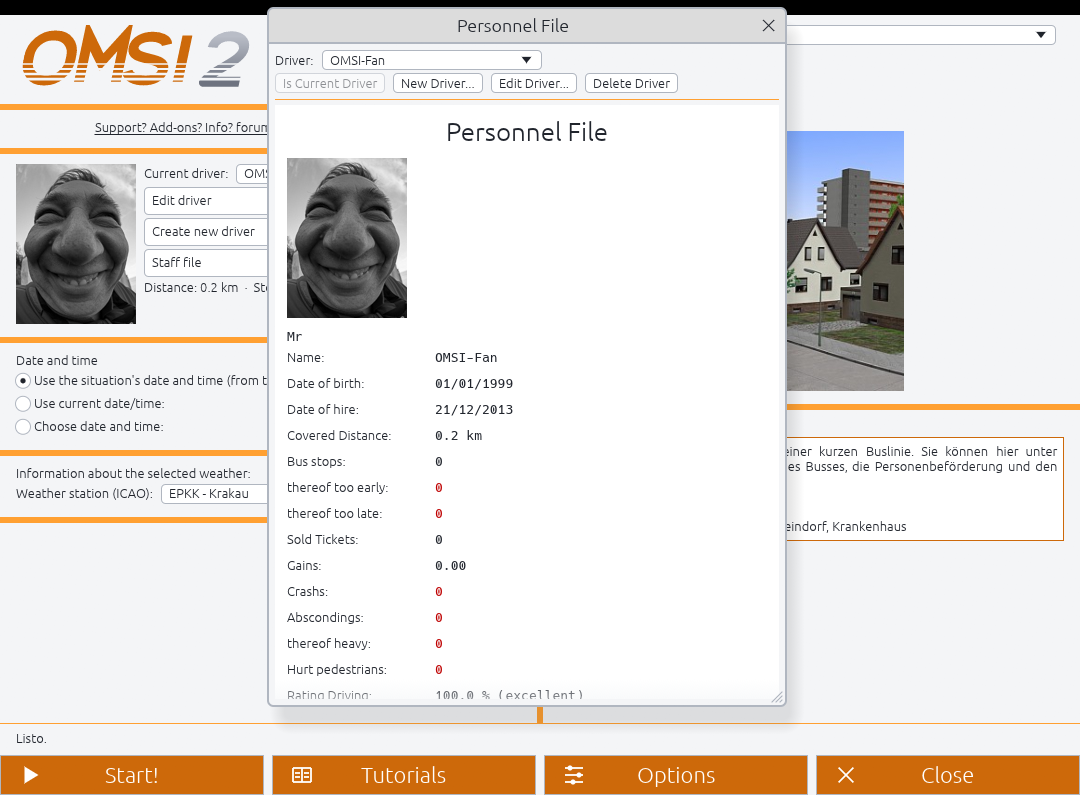
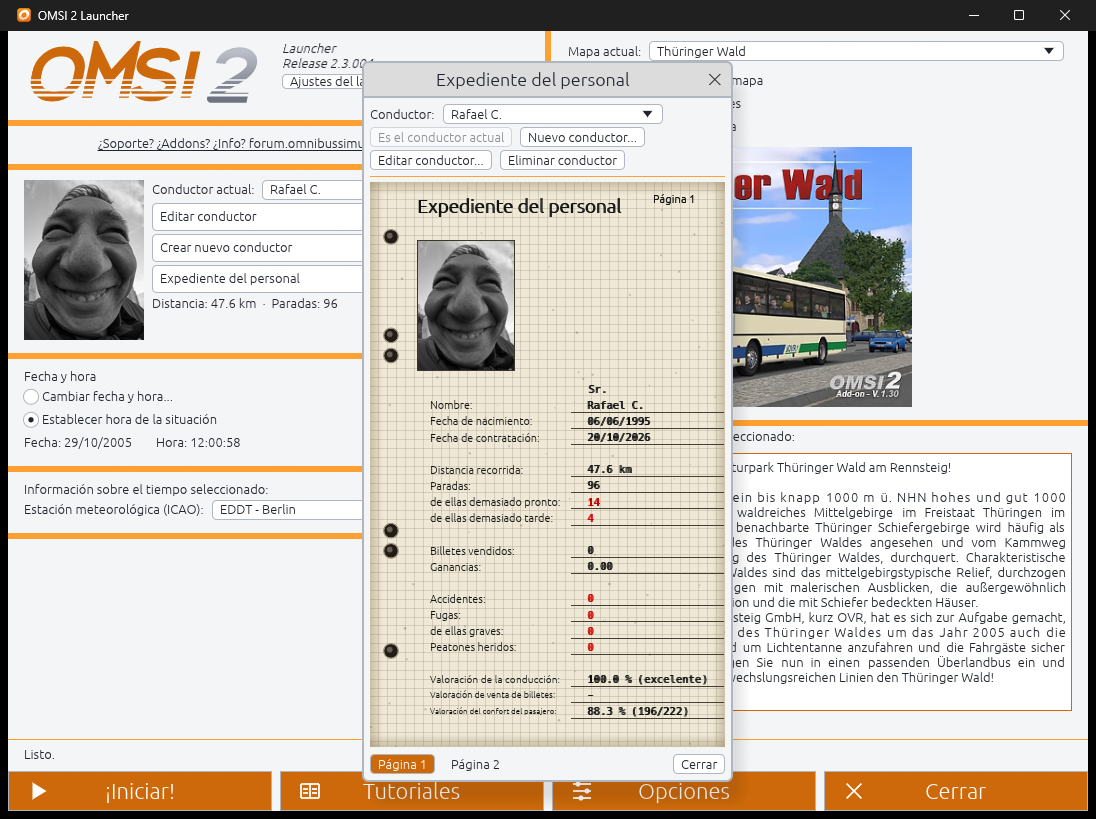
OMSI 2 Launcher 0.9-beta3

diff --git a/docs/index.html b/docs/index.html
@@ -84,7 +84,7 @@
     </nav>
     <div class="hero-inner">
       <div>
-        <span class="badge">0.9-beta2</span>
+        <span class="badge">0.9-beta3</span>
         <h1><span data-l="en">Start <span>OMSI 2</span> in one click.</span><span data-l="es">Inicia <span>OMSI 2</span> con un clic.</span></h1>
         <p>
           <span data-l="en">A fast, modern launcher for the vanilla OMSI 2 bus simulator. Pick the map, driver, date and time, press Start, and OMSI loads the map for you.</span>
@@ -109,12 +109,12 @@
     </p>
     <div class="grid">
       <div class="card"><h3><span data-l="en">One-click start</span><span data-l="es">Inicio con un clic</span></h3><p><span data-l="en">Open OMSI 2 Launcher, pick your map and driver, and it starts OMSI 2 and loads the last map state, the map without buses, or a saved situation.</span><span data-l="es">Abre OMSI 2 Launcher, elige tu mapa y conductor y carga el último estado, el mapa sin autobuses o una situación guardada.</span></p></div>
-      <div class="card"><h3><span data-l="en">Date, time and weather</span><span data-l="es">Fecha, hora y tiempo</span></h3><p><span data-l="en">Use the map's, the current ones, or your own, with Morning, Day, Afternoon and Night shortcuts and the ICAO weather station.</span><span data-l="es">Usa las del mapa, las actuales o las tuyas, con atajos Mañana, Día, Tarde y Noche y la estación meteorológica ICAO.</span></p></div>
+      <div class="card"><h3><span data-l="en">Date, time and weather</span><span data-l="es">Fecha, hora y tiempo</span></h3><p><span data-l="en">Like OMSI's start screen: change them in a window with the four times of day, the weekday and the map's holidays, or keep the situation's. Plus the ICAO weather station.</span><span data-l="es">Como la pantalla de inicio de OMSI: cámbialas en una ventana con las cuatro franjas del día, el día de la semana y los festivos del mapa, o deja las de la situación. Más la estación meteorológica ICAO.</span></p></div>
       <div class="card"><h3><span data-l="en">OMSI's options, rebuilt</span><span data-l="es">Las opciones de OMSI, reconstruidas</span></h3><p><span data-l="en">The same tabs and layout as the original, plus option presets you can load and save.</span><span data-l="es">Las mismas pestañas y disposición que el original, más presets de opciones que puedes cargar y guardar.</span></p></div>
       <div class="card"><h3><span data-l="en">Drivers and staff file</span><span data-l="es">Conductores y expediente</span></h3><p><span data-l="en">Edit, create and delete drivers and read their stops, distance, comfort rating and buses.</span><span data-l="es">Edita, crea y elimina conductores y consulta paradas, distancia, valoración de confort y autobuses.</span></p></div>
       <div class="card"><h3><span data-l="en">Choose where to appear</span><span data-l="es">Elige dónde aparecer</span></h3><p><span data-l="en">With "Load map without buses", pick the map's start place in the launcher; it answers OMSI's position window for you.</span><span data-l="es">Con "Cargar mapa sin autobuses", elige en el launcher el punto de inicio del mapa; él responde a la ventana de posición de OMSI.</span></p></div>
       <div class="card"><h3><span data-l="en">Tutorials</span><span data-l="es">Tutoriales</span></h3><p><span data-l="en">Start tutorials 1 to 4 straight from the launcher.</span><span data-l="es">Inicia los tutoriales 1 a 4 directamente desde el launcher.</span></p></div>
-      <div class="card"><h3><span data-l="en">7 languages, 3 themes</span><span data-l="es">7 idiomas, 3 temas</span></h3><p><span data-l="en">Español, English, Deutsch, Polski, Čeština, Français and Português; original orange, dark and light.</span><span data-l="es">Español, English, Deutsch, Polski, Čeština, Français y Português; naranja original, oscuro y claro.</span></p></div>
+      <div class="card"><h3><span data-l="en">Your languages, 3 themes</span><span data-l="es">Tus idiomas, 3 temas</span></h3><p><span data-l="en">Seven built in (Español, English, Deutsch, Polski, Čeština, Français, Português) plus any language in OMSI's Languages folder, with your own translation file; original orange, dark and light themes.</span><span data-l="es">Siete incluidos (Español, English, Deutsch, Polski, Čeština, Français, Português) más cualquier idioma de la carpeta Languages de OMSI, con tu propio archivo de traducción; temas naranja original, oscuro y claro.</span></p></div>
     </div>
   </section>
 

diff --git a/src/main.rs b/src/main.rs
@@ -221,7 +221,7 @@ impl App {
             tut_sel: 0,
             tut_entries: vec![],
             staff_open: std::env::var("OMSI2_OPEN").as_deref() == Ok("staff"), // dev shortcut for screenshots (OMSI2_TAB = page)
-            staff_sel: 0,
+            staff_sel: driver,
             staff_rec: None,
             staff_labels: Arc::new(HashMap::new()),
             confirm_delete: None,

diff --git a/src/update.rs b/src/update.rs
@@ -7,7 +7,7 @@ use std::sync::{Arc, Mutex};
 pub const REPO: &str = "rafaelkaiz/OMSI2-Launcher";
 
 /// The version as people read it ("0.9-beta1"); `VERSION` is the same in the form Cargo and the version comparison use.
-pub const LABEL: &str = "0.9-beta2";
+pub const LABEL: &str = "0.9-beta3";
 
 pub const VERSION: &str = env!("CARGO_PKG_VERSION");
 

diff --git a/README.es.md b/README.es.md
@@ -2,20 +2,20 @@
 
 **Un launcher rápido y moderno para el simulador de autobuses OMSI 2 original.** Elige el mapa, el conductor, la fecha y la hora, pulsa *Iniciar* y OMSI 2 se abre y carga el mapa por ti, sin pasar a mano por la pantalla de inicio.
 
-> **Versión 0.9-beta2** — segunda versión pública de pruebas (mira las [notas de la versión](https://github.com/rafaelkaiz/OMSI2-Launcher/releases)). [English](README.md) · [Página web](https://rafaelkaiz.github.io/OMSI2-Launcher/) · [Descargar](https://github.com/rafaelkaiz/OMSI2-Launcher/releases)
+> **Versión 0.9-beta3** — tercera versión pública de pruebas (mira las [notas de la versión](https://github.com/rafaelkaiz/OMSI2-Launcher/releases)). [English](README.md) · [Página web](https://rafaelkaiz.github.io/OMSI2-Launcher/) · [Descargar](https://github.com/rafaelkaiz/OMSI2-Launcher/releases)
 
 ![El launcher](docs/img/launcher.png)
 
 ## Qué hace
 
 - **Inicio con un clic**: abre OMSI 2 Launcher, elige tu mapa y conductor y él inicia OMSI 2 y carga el mapa: último estado, mapa sin autobuses o una situación guardada.
-- **Fecha y hora**: las del mapa, las actuales o las que elijas (con los atajos *Mañana 07:00 / Día 12:00 / Tarde 17:00 / Noche 00:00*), más la estación meteorológica (ICAO).
+- **Fecha y hora**: como la pantalla de inicio de OMSI: se cambian en una ventana propia (hora, las cuatro franjas del día, fecha, día de la semana y festivos del mapa) o se deja la de la situación, más la estación meteorológica (ICAO).
 - **Elige dónde aparecer**: con "Cargar mapa sin autobuses", eliges el punto de inicio del mapa en el launcher y él responde a la ventana "Establecer posición" de OMSI.
 - **Tutoriales 1–4** directamente desde el launcher.
 - **La ventana de opciones de OMSI, reconstruida**: General, Avanzado, Gráficos, Gráficos (avanzado), Sonido y Tráfico IA, con la misma disposición que el original. Carga presets de opciones y guarda tus opciones actuales como un preset nuevo.
 - **Conductores**: edita, crea y elimina conductores, y consulta el expediente del personal (paradas, distancia, valoración de confort, autobuses conducidos).
 - **Aspecto de OMSI**: el diseño naranja original, más un tema oscuro y otro claro. Se abre a pantalla completa con una pantalla de carga que permanece hasta que OMSI está cargando el mapa (F11 alterna la pantalla completa).
-- **7 idiomas**: Español, English, Deutsch, Polski, Čeština, Français, Português. La primera vez elige el idioma de Windows.
+- **Idiomas**: Español, English, Deutsch, Polski, Čeština, Français y Português, más cualquier idioma de la carpeta `Languages` de OMSI (para los textos del launcher se añade un archivo `<CÓDIGO>.txt`; se crea una plantilla). La primera vez elige el idioma de Windows.
 - **Elimina el archivo `closecheck`** que OMSI deja tras un cierre inesperado (opcional).
 - **Busca versiones nuevas en GitHub** (solo te avisa; nunca descarga ni reemplaza nada por sí solo).
 
@@ -49,7 +49,7 @@ Por ahora el plugin solo reconoce **OMSI 2 versión 2.3.004**.
 
 ## Instalación
 
-1. Descarga `OMSI2-Launcher-0.9-beta2-win64.zip` de la [página de versiones](https://github.com/rafaelkaiz/OMSI2-Launcher/releases) y descomprímelo donde quieras.
+1. Descarga `OMSI2-Launcher-0.9-beta3-win64.zip` de la [página de versiones](https://github.com/rafaelkaiz/OMSI2-Launcher/releases) y descomprímelo donde quieras.
 2. Ejecuta `OMSI2-Launcher.exe`. Encuentra OMSI 2 solo (carpetas habituales de Steam o Aerosoft); si no puede, te pregunta dónde está.
 3. Abre **Ajustes del launcher** y pulsa **Instalar plugin**.
 4. Elige mapa y conductor y pulsa **Iniciar**.

diff --git a/README.md b/README.md
@@ -2,20 +2,20 @@
 
 **A fast, modern launcher for the vanilla OMSI 2 bus simulator.** Pick the map, driver, date and time, press *Start* and OMSI 2 opens and loads the map for you, with no clicking through the start screen.
 
-> **Version 0.9-beta2** — second public test release (see the [release notes](https://github.com/rafaelkaiz/OMSI2-Launcher/releases)). [Español](README.es.md) · [Web page](https://rafaelkaiz.github.io/OMSI2-Launcher/) · [Download](https://github.com/rafaelkaiz/OMSI2-Launcher/releases)
+> **Version 0.9-beta3** — third public test release (see the [release notes](https://github.com/rafaelkaiz/OMSI2-Launcher/releases)). [Español](README.es.md) · [Web page](https://rafaelkaiz.github.io/OMSI2-Launcher/) · [Download](https://github.com/rafaelkaiz/OMSI2-Launcher/releases)
 
 ![The launcher](docs/img/launcher.png)
 
 ## What it does
 
 - **One-click start**: open OMSI 2 Launcher, pick your map and driver, and it starts OMSI 2 and loads the map: last map state, map without buses, or a saved situation.
-- **Date and time**: use the map's, the current ones, or choose them (with the *Morning 07:00 / Day 12:00 / Afternoon 17:00 / Night 00:00* shortcuts), plus the weather station (ICAO).
+- **Date and time**: like OMSI's start screen: change them in a window of their own (time, the four times of day, date, weekday and the map's holidays) or keep the situation's, plus the weather station (ICAO).
 - **Choose where to appear**: with "Load map without buses", pick the map's start place in the launcher and it answers OMSI's "Set position" window for you.
 - **Tutorials 1–4** straight from the launcher.
 - **OMSI's options window, rebuilt**: General, Advanced, Graphics, Graphics (advanced), Sound and AI traffic, laid out like the original. Load option presets and save your current options as a new preset.
 - **Drivers**: edit, create and delete drivers, and see the staff file (stops, distance, comfort rating, buses driven).
 - **Looks like OMSI**: the original orange design, plus a dark and a light theme. Opens full screen with a loading screen that stays up until OMSI is loading the map (F11 toggles full screen).
-- **7 languages**: Español, English, Deutsch, Polski, Čeština, Français, Português. The first run picks your Windows language.
+- **Languages**: Español, English, Deutsch, Polski, Čeština, Français and Português, plus any language in OMSI's `Languages` folder (add a `<CODE>.txt` file for the launcher's own texts; a template is created for you). The first run picks your Windows language.
 - **Removes the `closecheck` file** OMSI leaves behind after a crash (optional).
 - **Checks GitHub for new versions** (it only tells you; it never downloads or replaces anything by itself).
 
@@ -49,7 +49,7 @@ The plugin currently recognises **OMSI 2 version 2.3.004** only.
 
 ## Install
 
-1. Download `OMSI2-Launcher-0.9-beta2-win64.zip` from the [releases page](https://github.com/rafaelkaiz/OMSI2-Launcher/releases) and unzip it anywhere.
+1. Download `OMSI2-Launcher-0.9-beta3-win64.zip` from the [releases page](https://github.com/rafaelkaiz/OMSI2-Launcher/releases) and unzip it anywhere.
 2. Run `OMSI2-Launcher.exe`. It finds OMSI 2 by itself (Steam or Aerosoft default folders); if it cannot, it asks where it is.
 3. Open **Launcher settings** and press **Install plugin**.
 4. Choose your map and driver and press **Start**.
